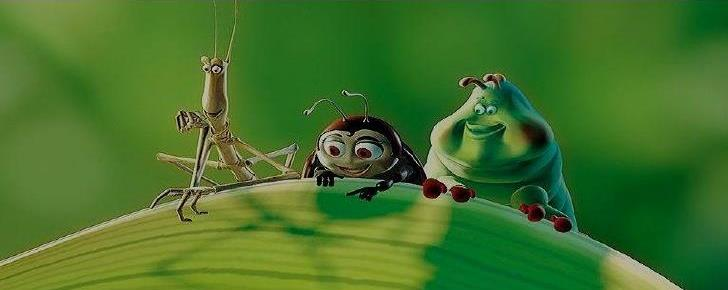
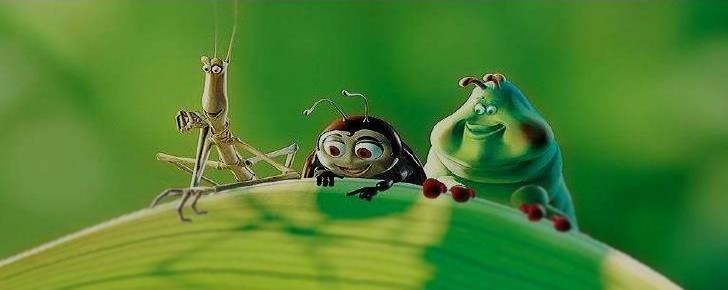
Added registration

diff --git a/index.php b/index.php
@@ -1,6 +1,6 @@
 <?php
 $title = "Home";
-$content = '<img src="Image/bug.png" class="imgLeft" />
+$content = '<img src="Image/bug.jpg" class="imgLeft" />
 <h3>Our Goal</h3>
 <p>
     Our Bug Entry System is mainly designed to track all kind of Bugs that has been logged
